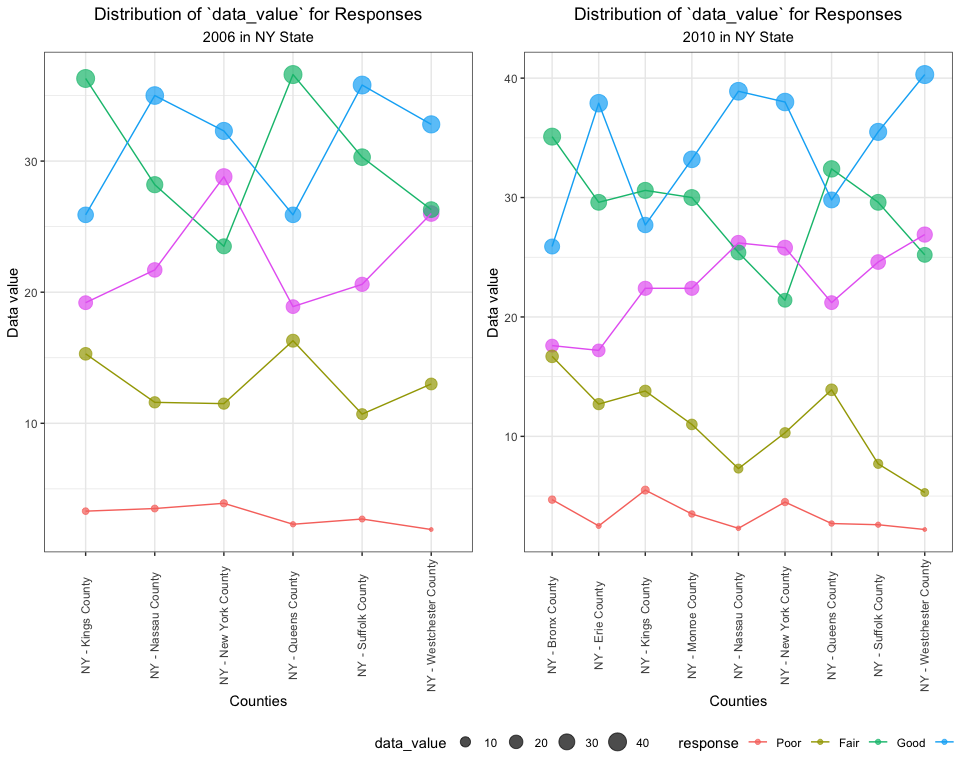
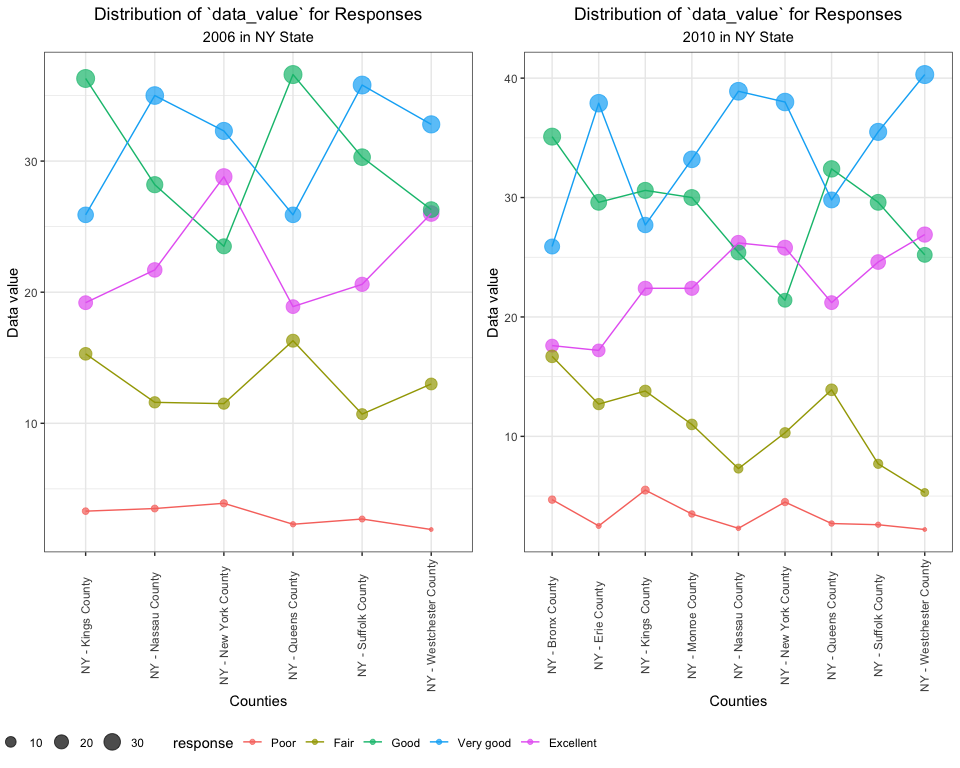
10/13/2019, modified comments, plots and coding style

diff --git a/p8105_hw3_zl2860.md b/p8105_hw3_zl2860.md
@@ -1,26 +1,26 @@
 p8105\_hw3\_zl2860
 ================
-Zongchao Liu
+Zongchao Liu UNI:zl2860
 10/6/2019
 
 # Problem 1
 
 ## Load data
 
-Let’s see a brief summary of this dataset
+Let’s see a brief summary of this dataset first:
 
     ## Skim summary statistics
     ##  n obs: 1384617 
     ##  n variables: 15 
     ## 
-    ## ── Variable type:character ──────────────────────────────────────────────────────────────────────────────────────────────────────────────
+    ## ── Variable type:character ──────────────────────────────────────────────────────────────────────────────────────────
     ##      variable missing complete       n min max empty n_unique
     ##         aisle       0  1384617 1384617   3  29     0      134
     ##    department       0  1384617 1384617   4  15     0       21
     ##      eval_set       0  1384617 1384617   5   5     0        1
     ##  product_name       0  1384617 1384617   3 159     0    39123
     ## 
-    ## ── Variable type:integer ────────────────────────────────────────────────────────────────────────────────────────────────────────────────
+    ## ── Variable type:integer ────────────────────────────────────────────────────────────────────────────────────────────
     ##                variable missing complete       n       mean        sd p0
     ##       add_to_cart_order       0  1384617 1384617       8.76      7.42  1
     ##                aisle_id       0  1384617 1384617      71.3      38.1   1
@@ -47,12 +47,12 @@ Let’s see a brief summary of this dataset
     ##   51732   1e+05  154959  206209 ▇▇▇▇▇▇▇▇
 
 The `instacart` dataset has `1384617` observations of `15` variables.
-The brief summary of the data shows that the datatypes inclue both the
-character and the integer. However, some of the variables are not in the
-correct type for feature analysis(i.e. `*_id`), requiring cleaning based
-on our need. Key variables include
-`aisle`,`deaprment`,`product_name`,`order_dow`, `order_hour_of_day` and
-others.
+The brief summary of the data shows that the data type within this
+dataset inclues both the character and the integer. However, some of the
+variables are not in the correct type for future analysis(e.g. `*_id`),
+requiring adjustment based on our need. Key variables in this dataset
+include `aisle`,`deaprment`,`product_name`,`order_dow`,
+`order_hour_of_day` and others.
 
 Illustrative examples of observation:
 
@@ -74,7 +74,7 @@ th`. This prodcut has been ordered by this user in the past. The
 evaluation set this order belongs in is
 `train`.
 
-## Answer the questions:
+## Do or answer the following:
 
 ### 1\. How many aisles are there, and which aisles are the most items ordered from?
 
@@ -96,31 +96,50 @@ instacart %>%
 
     ## [1] "fresh vegetables"
 
-Answer: There are 134 aisles and the most items are ordered from the
-`fresh vegetables`
+There are 134 aisles and the most items are ordered from the `fresh
+vegetables`
 aisle.
 
 ### 2\. Make a plot that shows the number of items ordered in each aisle, limiting this to aisles with more than 10000 items ordered. Arrange aisles sensibly, and organize your plot so others can read it.
 
 <img src="p8105_hw3_zl2860_files/figure-gfm/unnamed-chunk-3-1.png" width="90%" />
 
+In total, there are 39 aisles with more than 10000 items ordered. Among
+all of these aisles, the number of items ordered at `fresh vegetables`,
+`fresh fruits`, `packaged vegetables fruits` ranks No.1 ~ 3, while the
+number of items ordered at `butter` is the
+least.
+
 ### 3\. Make a table showing the three most popular items in each of the aisles “baking ingredients”, “dog food care”, and “packaged vegetables fruits”. Include the number of times each item is ordered in your table.
 
-#### Table 1. Three Most Popular Items in Each of the Aisles
+#### Table 1. Three Most Popular Items in Each of the Three Aisles
 
 #### (“baking ingredients”, “dog food care”, and “packaged vegetables fruits”)
 
-| aisle                      | product\_name                                 | items\_number |
-| :------------------------- | :-------------------------------------------- | ------------: |
-| baking ingredients         | Light Brown Sugar                             |           499 |
-| baking ingredients         | Pure Baking Soda                              |           387 |
-| baking ingredients         | Cane Sugar                                    |           336 |
-| dog food care              | Snack Sticks Chicken & Rice Recipe Dog Treats |            30 |
-| dog food care              | Organix Chicken & Brown Rice Recipe           |            28 |
-| dog food care              | Small Dog Biscuits                            |            26 |
-| packaged vegetables fruits | Organic Baby Spinach                          |          9784 |
-| packaged vegetables fruits | Organic Raspberries                           |          5546 |
-| packaged vegetables fruits | Organic Blueberries                           |          4966 |
+| aisle                      | product\_name                                 | times\_ordered |
+| :------------------------- | :-------------------------------------------- | -------------: |
+| baking ingredients         | Light Brown Sugar                             |            499 |
+| baking ingredients         | Pure Baking Soda                              |            387 |
+| baking ingredients         | Cane Sugar                                    |            336 |
+| dog food care              | Snack Sticks Chicken & Rice Recipe Dog Treats |             30 |
+| dog food care              | Organix Chicken & Brown Rice Recipe           |             28 |
+| dog food care              | Small Dog Biscuits                            |             26 |
+| packaged vegetables fruits | Organic Baby Spinach                          |           9784 |
+| packaged vegetables fruits | Organic Raspberries                           |           5546 |
+| packaged vegetables fruits | Organic Blueberries                           |           4966 |
+
+In the `baking ingredients` aisle, `Light Brown Sugar`, `Pure Baking
+Soda`, `Cane Sugar` have the most order times(499, 387, 336
+respectively).
+
+In the `dog food care` aisle, `Snack Sticks Chicken & Rice Recipe Dog
+Treats`,`Organix Chicken & Brown Rice Recipe`,`Small Dog Biscuits` have
+the most order times(30, 28, 26 respectively).
+
+In the `packaged vegetables fruits` aisle, `Organic Baby Spinach`,
+`Organic Raspberries`, `Organic Blueberries` have the most order
+times(9784, 5546, 4966
+respectively).
 
 ### 4\. Make a table showing the mean hour of the day at which Pink Lady Apples and Coffee Ice Cream are ordered on each day of the week; format this table for human readers (i.e. produce a 2 x 7 table)
 
@@ -131,6 +150,13 @@ aisle.
 | Coffee Ice Cream |   13.8 |   14.3 |    15.4 |      15.3 |     15.2 |   12.3 |     13.8 |
 | Pink Lady Apples |   13.4 |   11.4 |    11.7 |      14.2 |     11.6 |   12.8 |     11.9 |
 
+The values in the table indicate the mean hour of the day on which the
+order was placed. The mean of `order_hour_of_day` of `Coffee Ice Cream`
+is greater than that of `Pink Lady Apples` on almost each day. While the
+mean hour of `Pink Lady Apples` is fluctuating across the week, the mean
+hour of `Coffee Ice Cream` has a more clear trend, which is increasing
+from Sunday to Wednesday and decreasing from Thursday to Saturday.
+
 # Problem 2
 
 ## Data Cleaning
@@ -139,18 +165,14 @@ aisle.
 #data cleaning
 BRFSS <- brfss_smart2010 %>%
   janitor::clean_names() %>%
-  filter(topic == "Overall Health") %>%
+  filter(topic == "Overall Health") %>% #focus on the “Overall Health” 
   filter(response == "Excellent" |
          response ==  "Good" |
          response == "Very good"|
          response == "Fair" |
          response == "Poor"
-         ) %>%
-  mutate(response = factor(response, levels = c("Poor",
-                                       "Fair",
-                                       "Good",
-                                       "Very good",
-                                       "Excellent")))
+         ) %>% #include only responses from “Excellent” to “Poor”
+  mutate(response = factor(response, levels = c("Poor", "Fair", "Good", "Very good", "Excellent"))) #organize responses as a factor taking levels ordered from “Poor” to “Excellent”
 ```
 
 ## Answer the questions:
@@ -166,27 +188,28 @@ BRFSS <- brfss_smart2010 %>%
 | NJ           |        8 |
 | PA           |       10 |
 
-| locationabbr    | obs\_loc |
-| :-------------- | -------: |
-| CA              |       12 |
-| CO              |        7 |
-| FL              |       41 |
-| MA              |        9 |
-| MD              |       12 |
-| NC              |       12 |
-| NE              |       10 |
-| NJ              |       19 |
-| NY              |        9 |
-| OH              |        8 |
-| PA              |        7 |
-| SC              |        7 |
-| TX              |       16 |
-| WA              |       10 |
-| As the tables s |     how: |
+| locationabbr | obs\_loc |
+| :----------- | -------: |
+| CA           |       12 |
+| CO           |        7 |
+| FL           |       41 |
+| MA           |        9 |
+| MD           |       12 |
+| NC           |       12 |
+| NE           |       10 |
+| NJ           |       19 |
+| NY           |        9 |
+| OH           |        8 |
+| PA           |        7 |
+| SC           |        7 |
+| TX           |       16 |
+| WA           |       10 |
 
-In 2002, CT, FL, MA, NC, NJ, PA were observed at 7 or more locations.
+As the tables show:
 
-In 2010, CA, CO, FL, MA, MD, NC, NE, NJ, NY, OH, PA, SC, TX, WA were
+In 2002, `CT, FL, MA, NC, NJ, PA` were observed at 7 or more locations.
+
+In 2010, `CA, CO, FL, MA, MD, NC, NE, NJ, NY, OH, PA, SC, TX, WA` were
 observed at 7 or more
 locations.
 
@@ -194,19 +217,26 @@ locations.
 
 <img src="p8105_hw3_zl2860_files/figure-gfm/unnamed-chunk-9-1.png" width="90%" />
 
-From the plot above we can see that for most of the states, the average
+From the plot above we see that for most of the states, the average
 `data_value`s are within the range of 17.5 ~ 27.5 and fluctuate across
-the
-years.
+the years. Since there are so many states within the single plot, trends
+are hard to be clearly
+identified.
 
 ### 3\. Make a two-panel plot showing, for the years 2006, and 2010, distribution of data\_value for responses (“Poor” to “Excellent”) among locations in NY State.
 
 <img src="p8105_hw3_zl2860_files/figure-gfm/unnamed-chunk-10-1.png" width="90%" />
 
-I also made another plot here to show the density of the `data_value`.
-In this plot, the names of the counties are not specified. However, the
-two plots respectively reflect different
-information.
+From the plot above, we see that `Good` and `Very good` responses always
+have highest data values compared to other responses. In addition, it’s
+easy to identify the `Poor` and `Fair` responses as they have relatively
+low data values within different ranges. Data values of the `Excellent`
+responses are almost on the middle level among locations in NY State in
+both 2 years. I also made another plot here to show the density of the
+`data_value`. In this plot, the names of the counties are not specified.
+However, it makes up some of the information that is not reflected by
+the first
+plot.
 
     ## Picking joint bandwidth of 2.1
 
@@ -218,13 +248,29 @@ information.
 
 ## Q1. Load, tidy, and otherwise wrangle the data.
 
-    ## Parsed with column specification:
-    ## cols(
-    ##   .default = col_double(),
-    ##   day = col_character()
-    ## )
+``` r
+#load and clean data
+day_ind <-
+  seq(1,29,7) # create a vector for easily adjusting `day_id` later
 
-    ## See spec(...) for full column specifications.
+accel_data <- 
+  read_csv("./dataset/accel_data.csv") %>%
+  janitor::clean_names() %>%
+  mutate(weekday_vs_weekend = ifelse(day == "Saturday" | day == "Sunday", "weekend", "weekday"), #include a weekday vs weekend variable
+         day = factor(day, levels = c("Sunday", "Monday", "Tuesday", "Wednesday", "Thursday", "Friday", "Saturday"))
+         )  %>%  # change the data type of `day` so that we can rearrange the `day_id`
+  arrange(day) %>%
+  mutate(
+  day_id = c(day_ind, 
+             day_ind + 1, 
+             day_ind + 2,
+             day_ind + 3,
+             day_ind + 4,
+             day_ind + 5,
+             day_ind + 6)  # match `day_id` with the order of the 35 days in a human friendly way
+  ) %>%
+  arrange(week) #check if the `day_id` is correctly adjusted
+```
 
 The dataset `accel_data` has 35 observations of 1444, containing the
 activity information in each minute of 35 days. Also, indexes of weeks
@@ -277,31 +323,27 @@ analysis.
 
 <img src="p8105_hw3_zl2860_files/figure-gfm/unnamed-chunk-13-1.png" width="90%" />
 
-Since there are 35 days(the table has too many rows), the table is hard
+Since there are 35 days (the table has too many rows), the table is hard
 to directly show the trends. Therefore, I add a plot here. From the plot
-above, which is derived from the table, it is easy to find that the
-activity of the man on Sundays is keeping decreasing. Also, There is a
-peak of the activity on the Monday of the third week and a peak of
-weekly activity in the third week. Obviously, the activity on Saturdays
-of the fourth and the fith week is too low to see on the plot. I have
-checked the data of these two days on the table, and find that the
-values are actually very low. There should be some reasons to explain
-this
+which is derived from the table, it is easy to find that the activity of
+the man on Sundays is keeping decreasing. Also, There is a peak of the
+Monday’s activity during the third week and a peak of weekly activity in
+the third week. Obviously, the activity on Saturdays of the fourth and
+the fith week is too low to see on the plot. I have checked the data of
+these two days in the table, and find that the values are actually very
+low. There should be some reasons to explain this
 situation.
 
 ## Q3. Accelerometer data allows the inspection activity over the course of the day. Make a single-panel plot that shows the 24-hour activity time courses for each day and use color to indicate day of the week. Describe in words any patterns or conclusions you can make based on this graph.
 
 <img src="p8105_hw3_zl2860_files/figure-gfm/unnamed-chunk-14-1.png" width="90%" />
 
-    ## Scale for 'fill' is already present. Adding another scale for 'fill',
-    ## which will replace the existing scale.
-
 <img src="p8105_hw3_zl2860_files/figure-gfm/unnamed-chunk-15-1.png" width="90%" />
 
 I made two plots here trying to show the trends.
 
 Firstly I made an area plot to show the trends of the activity of the 35
-days in every minute of a day. From the first plot, we can see that
+days in every minute of a day. From the first plot, we see that
 differences of activity do exist between different days. Some of the
 days have higher activity levels than the others. The most important
 information we can get from this plot is that the activity of nearly all
@@ -309,19 +351,20 @@ of the 35 days follow a visible trend across the 24 hours. On each day,
 the activity keeps increasing before the 7th hour, and then fluctuates
 from the 7th hour to the 21 st hour. After that, the activity decreases
 again. If the order of the hours is matched with real time, the result
-will be more believable because it does relect a normal daily life.
+will be more believable because it does relect a normal human daily
+life.
 
 Secondly, I add a time-series heatmap to show the trend of the 24-hour
-activity. This plot is different from the first plot because it just
-shows the activity of every hour rather than every minute of a day. We
-can get the similar conclusion: the activity keeps increasing before the
-7th hour and then fluctuates from the 7th hour to the 21 st hour. After
-that, it dramatically decreases. However, We can also know something new
-in this plot. The distributions of the activity peaks in each day are
-different. Some days have two peaks, some have only one, and others have
-none. Obviously, from the plot we see some days have very low activity.
-I have checked the activity of those days in the dataset and find that
-for most of the minutes within those days, the activity per minute is
-only “1”. There are many reasons to explain that. Perhaps it’s because
-the device failed to record data at that time and only returned the
-activity value as “1”.
+activity. This plot is different from the first plot as it just shows
+the activity of every hour rather than every minute of a day. We can get
+the similar conclusion: the activity keeps increasing before the 7th
+hour and then fluctuates from the 7th hour to the 21 st hour. After
+that, it dramatically decreases. In addition, We can also know something
+new from this plot. The distributions of the activity peaks on each day
+are different. Some days have two peaks, some have only one, and others
+have none. Obviously, from the plot we see some days have very low
+activity (white boxes). I have checked the activity of those days in the
+dataset and find that for most of the minutes within those days, the
+activity per minute is only “1”. There are many reasons to explain that.
+Perhaps it’s because the device failed to record data at that time and
+only returned the activity value as “1”.
